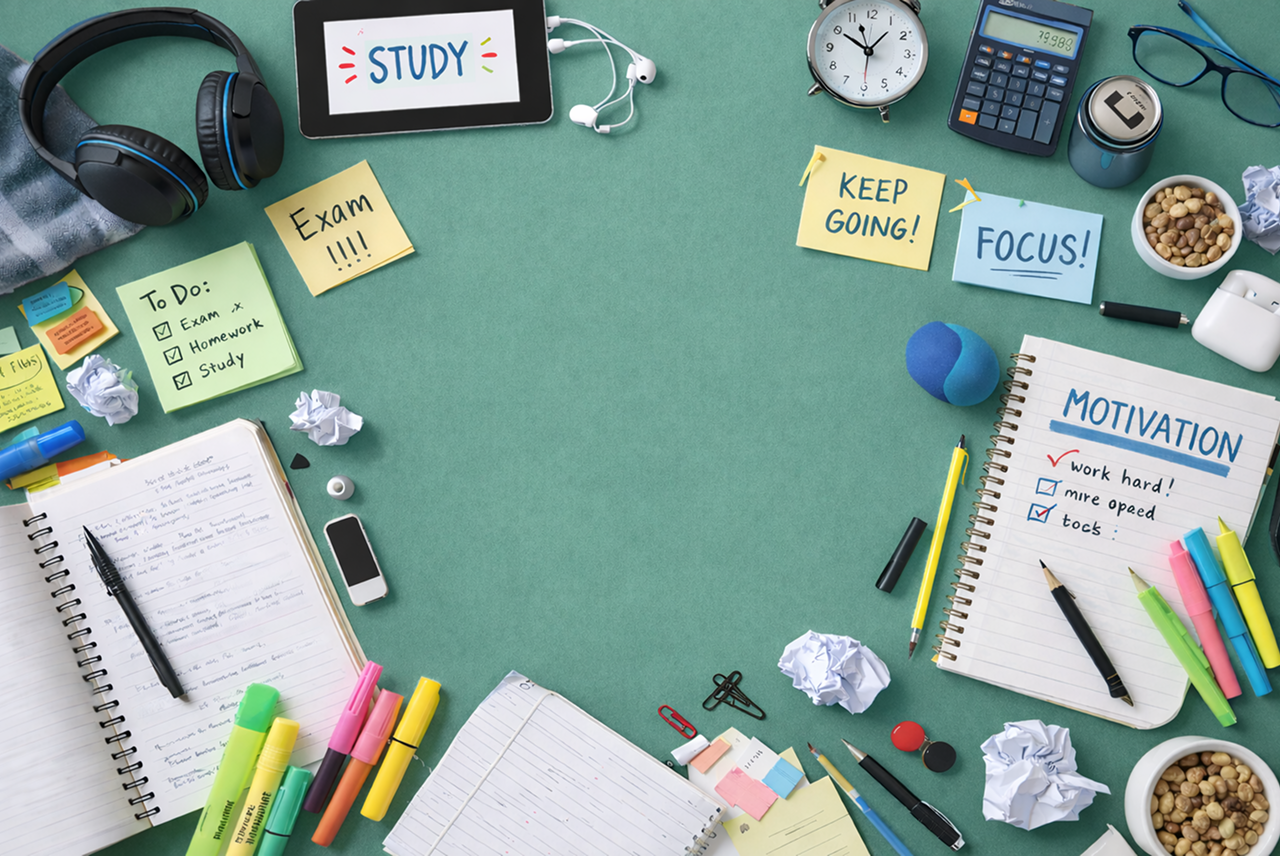
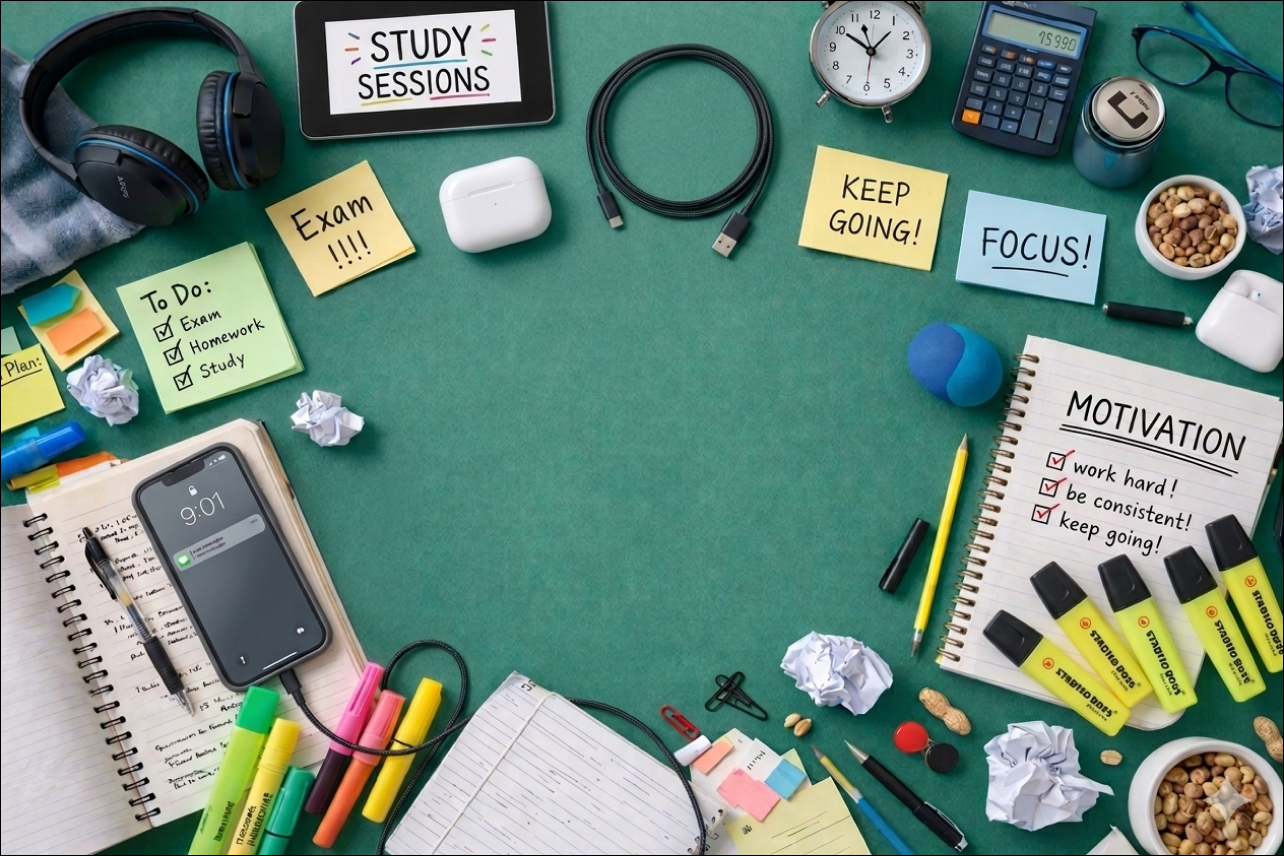
feat: implement video favorites functionality in video pages

diff --git a/mindly/src/pages/VideoDetail.jsx b/mindly/src/pages/VideoDetail.jsx
@@ -9,7 +9,9 @@ import {
 	Spinner,
 } from "@chakra-ui/react";
 import { useParams, Link, useNavigate } from "react-router-dom";
+import { FaHeart, FaRegHeart } from "react-icons/fa";
 import { useVideo, useRelatedVideos } from "../hooks/useVideos";
+import { useVideoFavorites } from "../hooks/useVideoFavorites";
 import StressPlay from "../assets/Homepage/Stress_play_home.svg";
 import FocusPlay from "../assets/Homepage/Focus_play_home.svg";
 import MotivationPlay from "../assets/Homepage/Motivation_play_home.svg";
@@ -39,6 +41,13 @@ function VideoDetail() {
 		id,
 		3,
 	);
+
+	const allVideoIds = [
+		...(video ? [video.id] : []),
+		...relatedVideos.map((v) => v.id),
+	];
+	const { favoritedVideos, toggleFavorite } =
+		useVideoFavorites(allVideoIds);
 
 	if (loading) {
 		return (
@@ -108,16 +117,39 @@ function VideoDetail() {
 									<Heading className="videodetail-title" color="#472c1b">
 										{video.title}
 									</Heading>
-									<Box
-										className="theme_videos"
-										bg={themeColor}
-										px={3}
-										py={1}
-										fontSize="sm"
-										display="inline-block"
-									>
-										{video.theme.charAt(0).toUpperCase() + video.theme.slice(1)}
-									</Box>
+									<Flex align="center" gap={3}>
+										<Box
+											as="button"
+											onClick={() => toggleFavorite(video.id)}
+color={
+	favoritedVideos.has(video.id)
+		? "#472c1b"
+		: "#472c1b"
+}
+fontSize="22px"
+cursor="pointer"
+display="flex"
+alignItems="center"
+_hover={{ color: "#472c1b" }}
+										>
+											{favoritedVideos.has(video.id) ? (
+												<FaHeart />
+											) : (
+												<FaRegHeart />
+											)}
+										</Box>
+										<Box
+											className="theme_videos"
+											bg={themeColor}
+											px={3}
+											py={1}
+											fontSize="sm"
+											display="inline-block"
+										>
+											{video.theme.charAt(0).toUpperCase() +
+												video.theme.slice(1)}
+										</Box>
+									</Flex>
 								</Flex>
 								<Text className="video-creator" color="#472c1b" mb={2}>
 									{video.creator_name}
@@ -173,6 +205,35 @@ function VideoDetail() {
 													alignItems="center"
 													justifyContent="center"
 												>
+													<Box
+														position="absolute"
+														top={3}
+														right={3}
+														zIndex={3}
+														cursor="pointer"
+														onClick={(e) => {
+															e.preventDefault();
+															e.stopPropagation();
+															toggleFavorite(relVideo.id);
+														}}
+														color={
+															favoritedVideos.has(relVideo.id)
+																? "#fefae0"
+																: "white"
+														}
+														fontSize="22px"
+														filter={
+															favoritedVideos.has(relVideo.id)
+																? "none"
+																: "drop-shadow(0 1px 2px rgba(0,0,0,0.5))"
+														}
+													>
+														{favoritedVideos.has(relVideo.id) ? (
+															<FaHeart />
+														) : (
+															<FaRegHeart />
+														)}
+													</Box>
 													<Box className="theme_icon" zIndex={1}>
 														<Image
 															src={RelThemeIcon}

diff --git a/mindly/src/pages/Videos.jsx b/mindly/src/pages/Videos.jsx
@@ -12,6 +12,7 @@ import {
 	Textarea,
 } from "@chakra-ui/react";
 import { useState } from "react";
+import { FaHeart, FaRegHeart } from "react-icons/fa";
 import Beige from "../assets/Homepage/Beige_home.svg";
 import WhiteHome from "../assets/Homepage/White_home.svg";
 import ClockHome from "../assets/Homepage/clock_home.svg";
@@ -21,6 +22,7 @@ import MotivationPlay from "../assets/Homepage/Motivation_play_home.svg";
 import "../ui/home.css";
 import "../ui/videos.css";
 import { useVideos } from "../hooks/useVideos";
+import { useVideoFavorites } from "../hooks/useVideoFavorites";
 import { useAuth } from "../library/supabase/AuthContext";
 import { supabase } from "../library/supabase/supabaseClient";
 import { useNavigate, Link } from "react-router-dom";
@@ -78,6 +80,10 @@ function Videos() {
 		const matchesFilter = filter === "all" || video.theme === filter;
 		return matchesSearch && matchesFilter;
 	});
+
+	const filteredVideoIds = filteredVideos.map((v) => v.id);
+	const { favoritedVideos, toggleFavorite } =
+		useVideoFavorites(filteredVideoIds);
 
 	const handleAddVideo = async (e) => {
 		e.preventDefault();
@@ -222,19 +228,48 @@ function Videos() {
 											position="relative"
 											_hover={{ transform: "scale(1.02)", transition: "0.2s" }}
 										>
+										<Box
+											className="video_thumbnail"
+											bg={themeColor}
+											position="relative"
+											zIndex={0}
+											h="250px"
+											display="flex"
+											alignItems="center"
+											justifyContent="center"
+										>
 											<Box
-												className="video_thumbnail"
-												bg={themeColor}
-												position="relative"
-												zIndex={0}
-												h="250px"
-												display="flex"
-												alignItems="center"
-												justifyContent="center"
+												position="absolute"
+												top={3}
+												right={3}
+												zIndex={3}
+												cursor="pointer"
+												onClick={(e) => {
+													e.preventDefault();
+													e.stopPropagation();
+													toggleFavorite(video.id);
+												}}
+color={
+	favoritedVideos.has(video.id)
+		? "#fefae0"
+		: "white"
+}
+fontSize="22px"
+filter={
+	favoritedVideos.has(video.id)
+		? "none"
+		: "drop-shadow(0 1px 2px rgba(0,0,0,0.5))"
+}
 											>
-												<Box className="theme_icon" zIndex={1}>
-													<Image src={ThemeIcon} alt="Play" w="80px" h="80px" />
-												</Box>
+												{favoritedVideos.has(video.id) ? (
+													<FaHeart />
+												) : (
+													<FaRegHeart />
+												)}
+											</Box>
+											<Box className="theme_icon" zIndex={1}>
+												<Image src={ThemeIcon} alt="Play" w="80px" h="80px" />
+											</Box>
 												<Box
 													className="video_minute"
 													zIndex={2}

diff --git a/mindly/src/hooks/useVideoFavorites.js b/mindly/src/hooks/useVideoFavorites.js
@@ -1,0 +1,69 @@
+import { useState, useEffect, useCallback } from "react";
+import { supabase } from "../library/supabase/supabaseClient";
+import { useAuth } from "../library/supabase/AuthContext";
+
+export function useVideoFavorites(videoIds = []) {
+  const { user } = useAuth();
+  const [favoritedVideos, setFavoritedVideos] = useState(new Set());
+  const [loading, setLoading] = useState(false);
+
+  useEffect(() => {
+    if (!user || !videoIds.length) {
+      setFavoritedVideos(new Set());
+      return;
+    }
+
+    const fetchFavorites = async () => {
+      setLoading(true);
+      const { data, error } = await supabase
+        .from("videos_favorites")
+        .select("video_id")
+        .eq("user_id", user.id)
+        .in("video_id", videoIds);
+
+      if (!error && data) {
+        setFavoritedVideos(new Set(data.map((fav) => fav.video_id)));
+      }
+      setLoading(false);
+    };
+
+    fetchFavorites();
+  }, [user, videoIds.join(",")]);
+
+  const toggleFavorite = useCallback(
+    async (videoId) => {
+      if (!user) return { error: new Error("Must be logged in to favorite") };
+
+      const isFavorited = favoritedVideos.has(videoId);
+
+      if (isFavorited) {
+        const { error } = await supabase
+          .from("videos_favorites")
+          .delete()
+          .eq("user_id", user.id)
+          .eq("video_id", videoId);
+
+        if (error) return { error };
+
+        setFavoritedVideos((prev) => {
+          const next = new Set(prev);
+          next.delete(videoId);
+          return next;
+        });
+        return { error: null, action: "unfavorited" };
+      } else {
+        const { error } = await supabase
+          .from("videos_favorites")
+          .insert({ user_id: user.id, video_id: videoId });
+
+        if (error) return { error };
+
+        setFavoritedVideos((prev) => new Set([...prev, videoId]));
+        return { error: null, action: "favorited" };
+      }
+    },
+    [user, favoritedVideos],
+  );
+
+  return { favoritedVideos, toggleFavorite, loading };
+}

diff --git a/mindly/src/pages/Home.jsx b/mindly/src/pages/Home.jsx
@@ -13,6 +13,7 @@ import {
 	Container,
 } from "@chakra-ui/react";
 import { Link } from "react-router-dom";
+import { FaHeart, FaRegHeart } from "react-icons/fa";
 import bgHome from "../assets/Homepage/BG_Home.png";
 import actionBrown from "../assets/Homepage/Action_brown.png";
 import Book from "../assets/Homepage/Book_home.svg";
@@ -26,6 +27,7 @@ import WhiteHome from "../assets/Homepage/White_home.svg";
 import ClockHome from "../assets/Homepage/clock_home.svg";
 import "../ui/home.css";
 import { useVideosByTheme } from "../hooks/useVideos";
+import { useVideoFavorites } from "../hooks/useVideoFavorites";
 
 const themeColors = {
 	stress: "#C27A6B",
@@ -41,6 +43,8 @@ const themeIcons = {
 
 function Home() {
 	const { videos, loading, error } = useVideosByTheme();
+	const videoIds = videos.map((v) => v.id);
+	const { favoritedVideos, toggleFavorite } = useVideoFavorites(videoIds);
 	return (
 		<Box>
 			<CheckInFlow />
@@ -205,6 +209,35 @@ function Home() {
 											alignItems="center"
 											justifyContent="center"
 										>
+											<Box
+												position="absolute"
+												top={3}
+												right={3}
+												zIndex={3}
+												cursor="pointer"
+												onClick={(e) => {
+													e.preventDefault();
+													e.stopPropagation();
+													toggleFavorite(video.id);
+												}}
+												color={
+													favoritedVideos.has(video.id)
+														? "#fefae0"
+														: "white"
+												}
+												fontSize="22px"
+												filter={
+													favoritedVideos.has(video.id)
+														? "none"
+														: "drop-shadow(0 1px 2px rgba(0,0,0,0.5))"
+												}
+											>
+												{favoritedVideos.has(video.id) ? (
+													<FaHeart />
+												) : (
+													<FaRegHeart />
+												)}
+											</Box>
 											<Box className="theme_icon" zIndex={1}>
 												<Image src={ThemeIcon} alt="Play" w="80px" h="80px" />
 											</Box>
